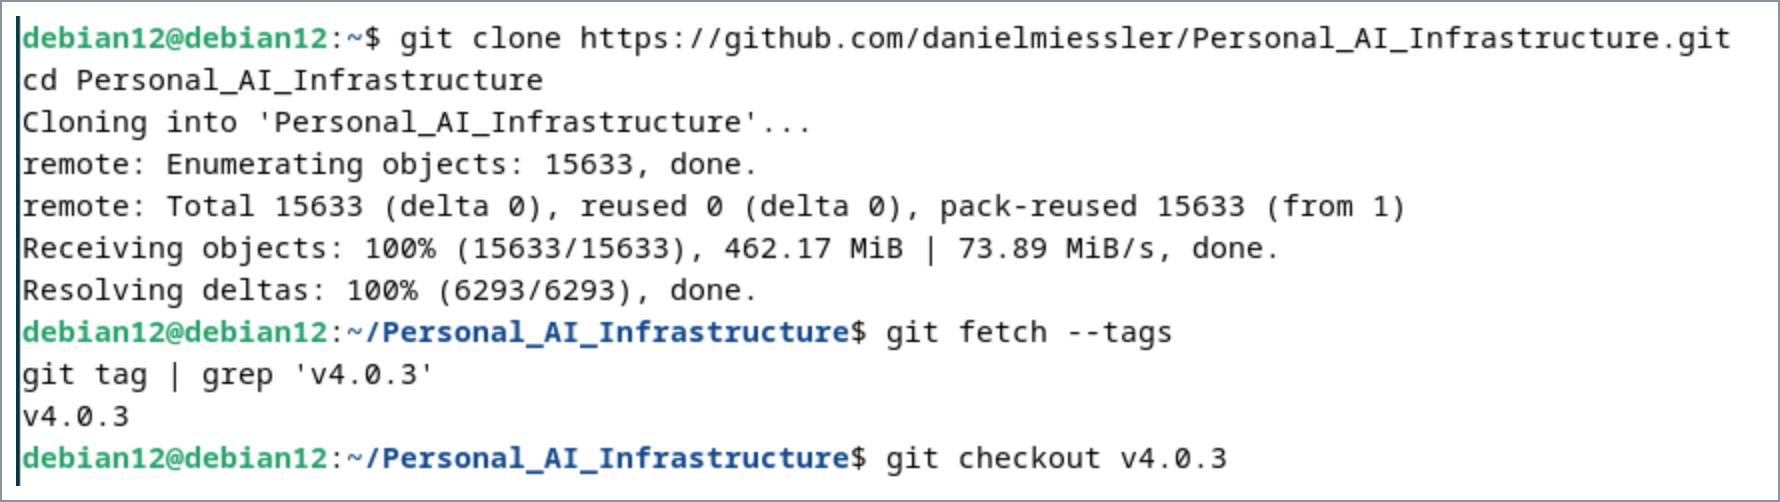
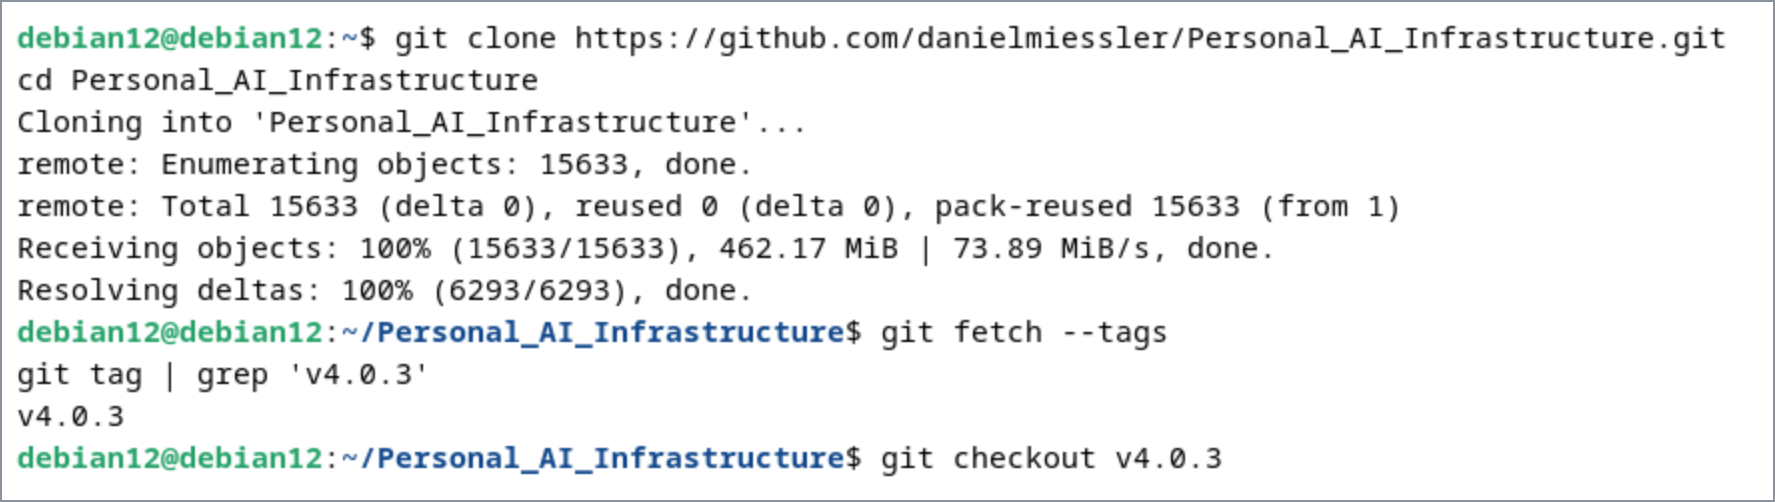
fixed image order and image

diff --git a/personal-ai-infrastructure/README.md b/personal-ai-infrastructure/README.md
@@ -165,11 +165,7 @@ bash install.sh
   <em>PAI v4.0.3 installer running on Debian</em>
 </p>
 
-Follow the installer prompts.
-
-### Bun runtime
-
-PAI's installer installs the [Bun](https://bun.sh) runtime automatically — you can see it happen in the installer output above (`Installing Bun runtime...`). Bun is what runs the `pai` launcher (`pai.ts`), so it needs to be present before you can launch PAI.
+Before it prompts you for anything, the installer checks prerequisites and installs the [Bun](https://bun.sh) runtime automatically — visible above as `Installing Bun runtime...`. Bun is what runs the `pai` launcher (`pai.ts`), so it needs to be present before you can launch PAI.
 
 Verify it's there:
 
@@ -183,6 +179,8 @@ If it's missing, install it manually:
 curl -fsSL https://bun.sh/install | bash
 source ~/.bashrc
 ```
+
+Once that's done, follow the interactive prompts.
 
 ### Voice/audio note
 
@@ -546,5 +544,6 @@ For sensitive email, consider beginning with a test inbox or non-sensitive sampl
 
 # References
 
+- [Sam Bowne — ML 190: Personal AI Infrastructure](https://samsclass.info/ML/proj/ML190.htm)
 - [Daniel Miessler — Personal AI Infrastructure / LifeOS](https://github.com/danielmiessler/Personal_AI_Infrastructure)
 - [Claude Code](https://claude.ai/code)
